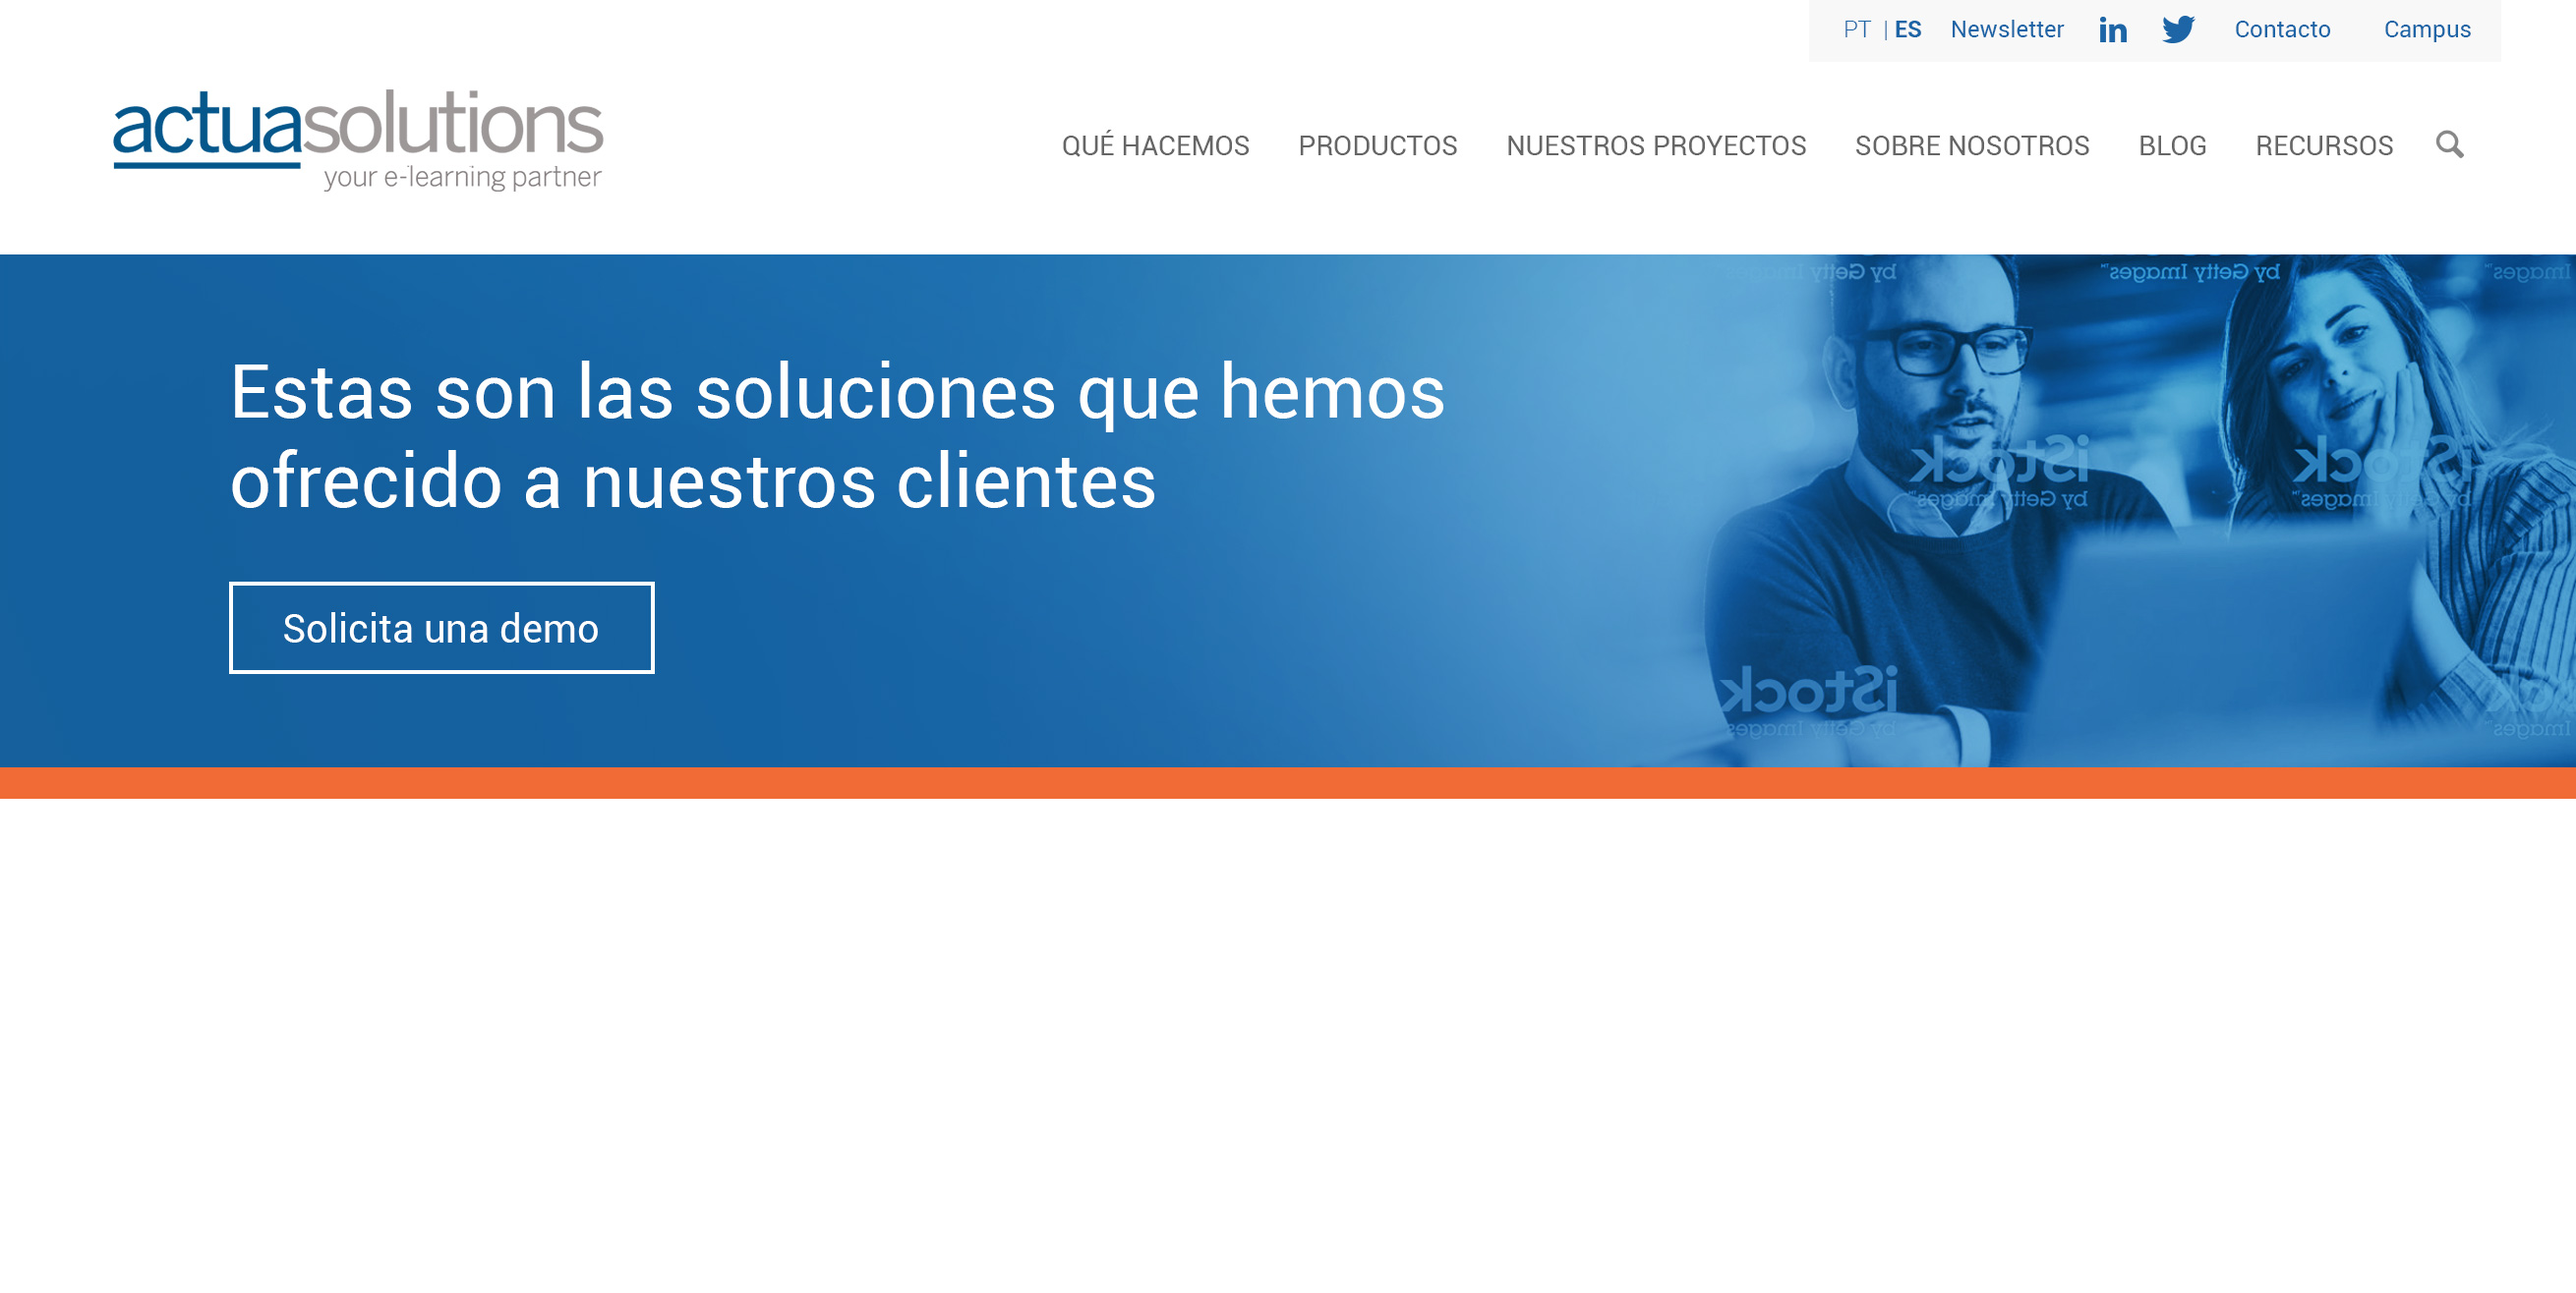
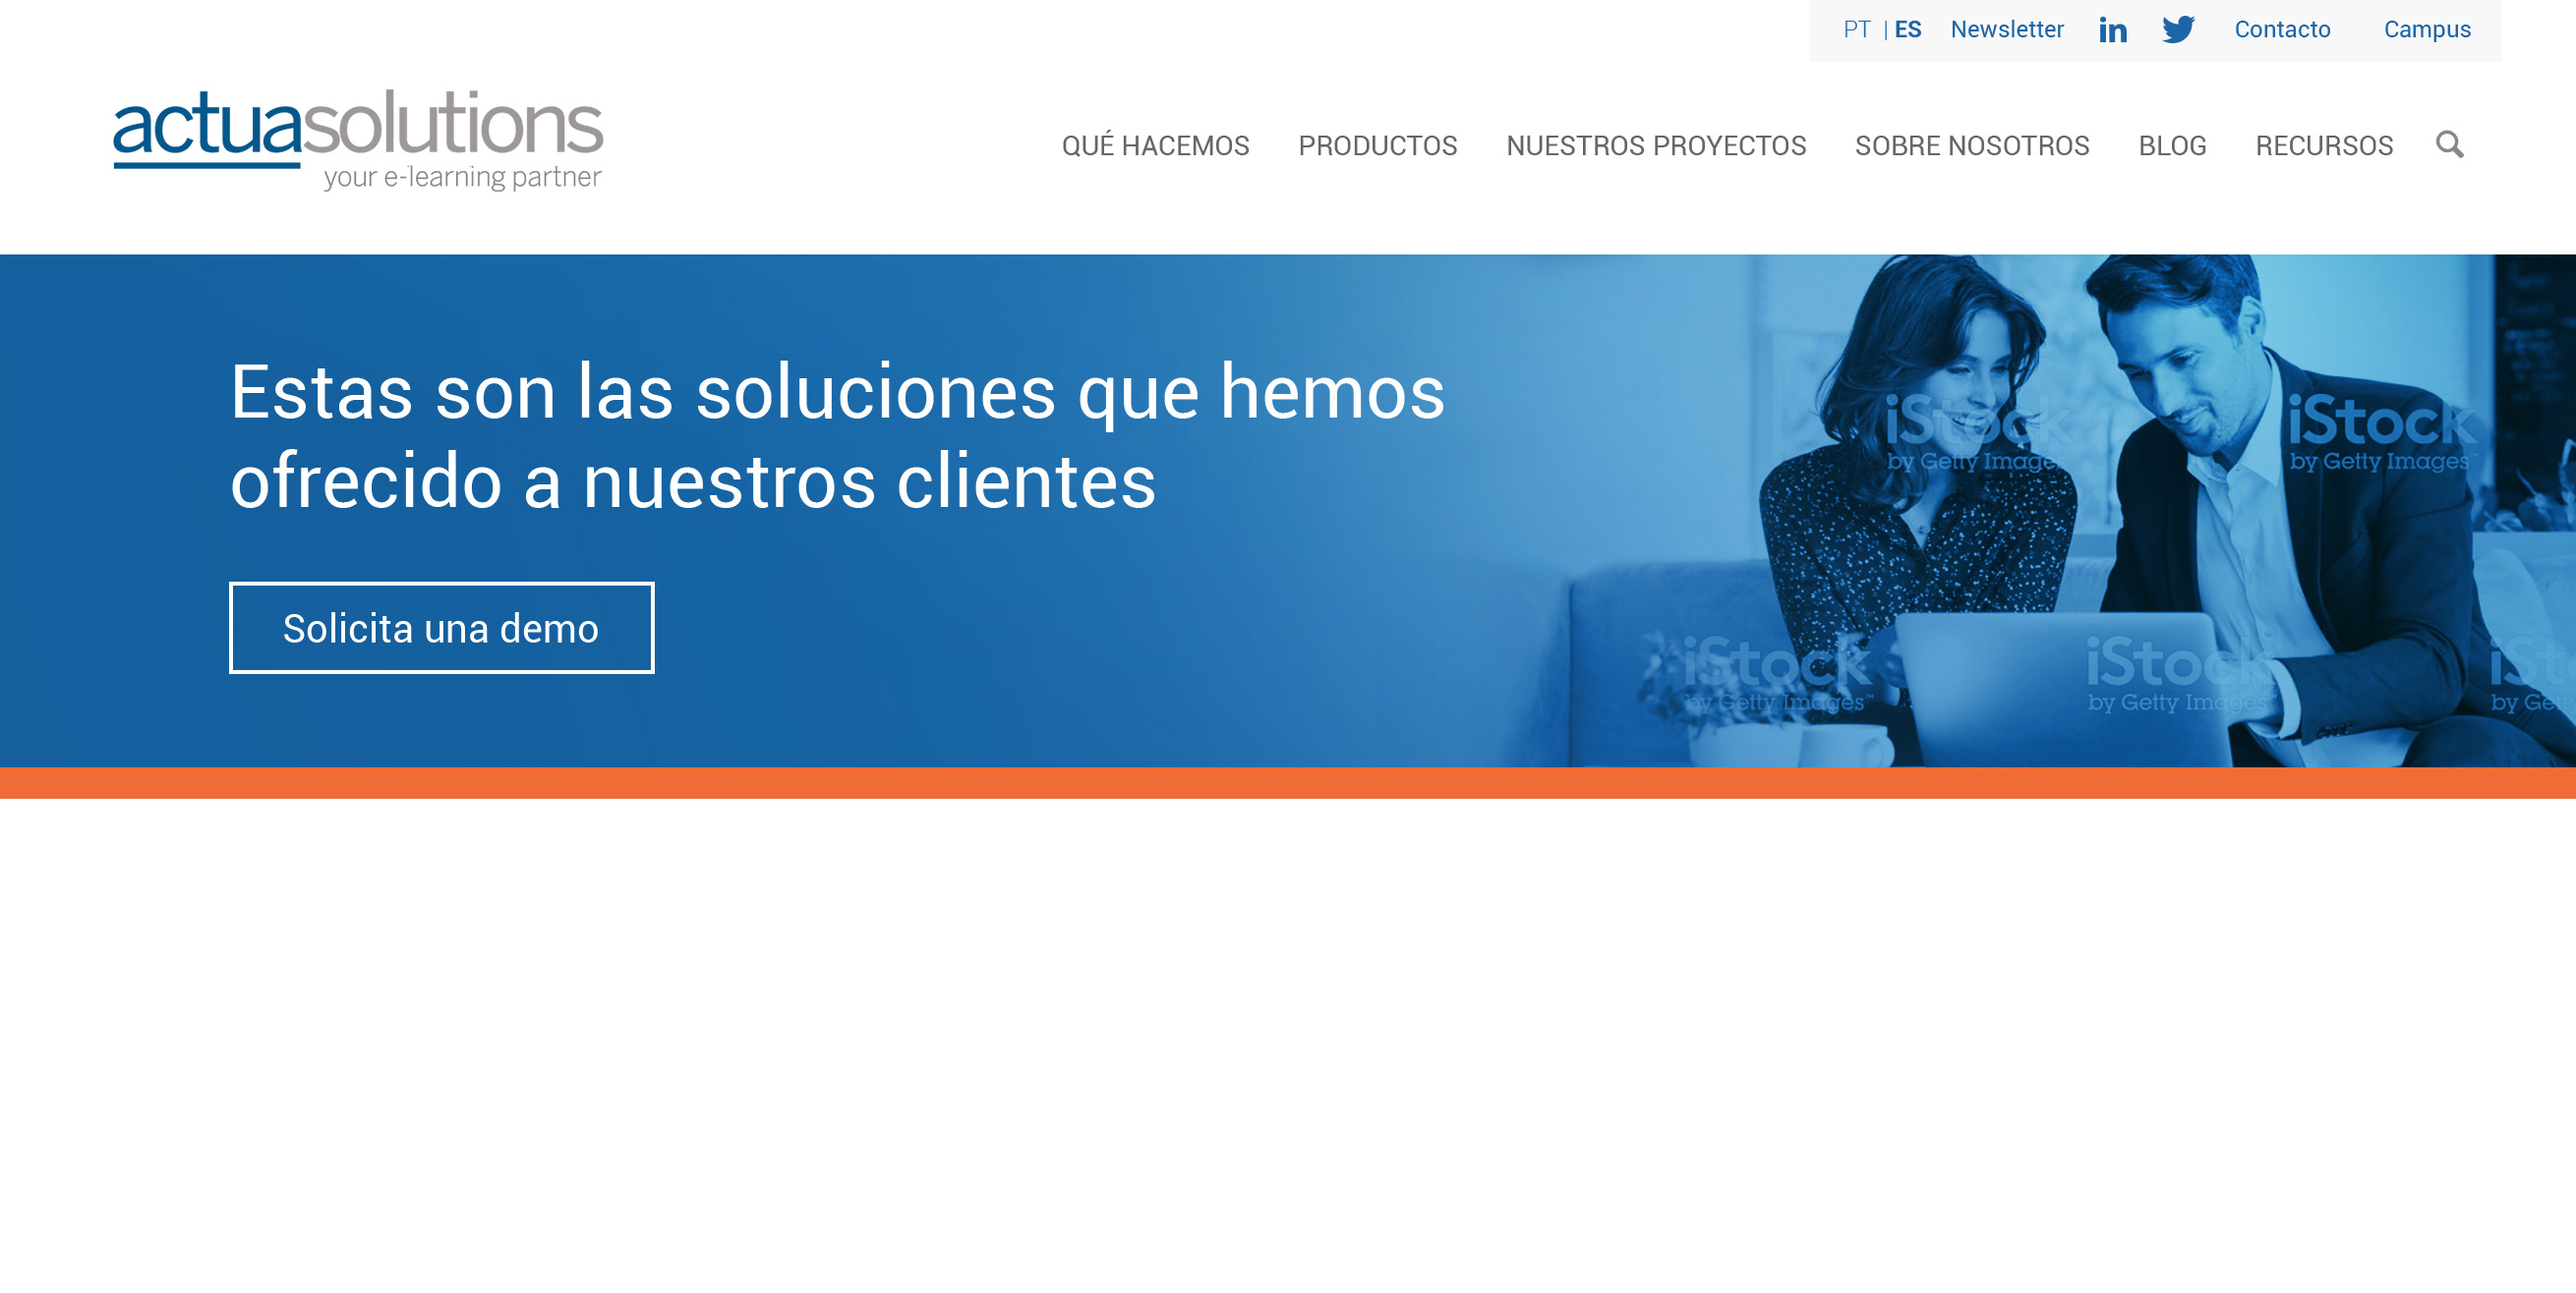
w1

Changed region(s): [[0.5874, 0.1869, 1.0, 0.5919]]

diff --git a/Actua/Roca/1.html b/Actua/Roca/1.html
@@ -1,0 +1,23 @@
+<html><head><style>
+
+html, body {
+  height: 100%;
+  width: 100%;
+  padding: 0;
+  margin: 0;
+}
+
+#full-screen-background-image {
+  display:block;
+  margin-left:auto;
+  margin-right:auto;
+}
+
+
+</style></head>
+
+<body   style="background-color: #f6f7fa;">
+  <img alt="full screen background image" src="jpg/1.jpg" id="full-screen-background-image" width="1310px" height="1688px" /> 
+</body>
+
+</html>

diff --git a/Actua/Roca/2.html b/Actua/Roca/2.html
@@ -1,0 +1,23 @@
+<html><head><style>
+
+html, body {
+  height: 100%;
+  width: 100%;
+  padding: 0;
+  margin: 0;
+}
+
+#full-screen-background-image {
+  display:block;
+  margin-left:auto;
+  margin-right:auto;
+}
+
+
+</style></head>
+
+<body   style="background-color: #f6f7fa;">
+  <img alt="full screen background image" src="jpg/2.jpg" id="full-screen-background-image" width="1310px" height="1321px" /> 
+</body>
+
+</html>

diff --git a/Actua/Roca/3.html b/Actua/Roca/3.html
@@ -1,0 +1,23 @@
+<html><head><style>
+
+html, body {
+  height: 100%;
+  width: 100%;
+  padding: 0;
+  margin: 0;
+}
+
+#full-screen-background-image {
+  display:block;
+  margin-left:auto;
+  margin-right:auto;
+}
+
+
+</style></head>
+
+<body   style="background-color: #f6f7fa;">
+  <img alt="full screen background image" src="jpg/3.jpg" id="full-screen-background-image" width="1310px" height="1321px" /> 
+</body>
+
+</html>
